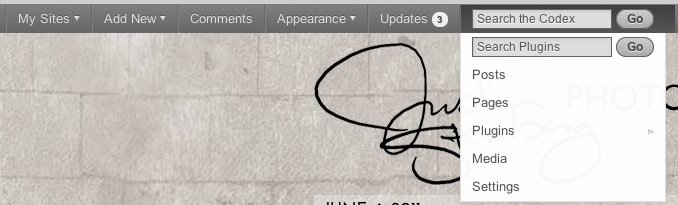
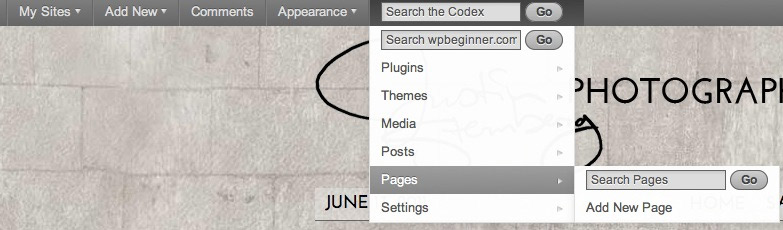
version 1.5
git-svn-id: https://plugins.svn.wordpress.org/enhanced-admin-bar-with-codex-search/trunk@396697 b8457f37-d9ea-0310-8a92-e5e31aec5664

diff --git a/admin-bar-enhancements.php b/admin-bar-enhancements.php
@@ -2,11 +2,11 @@
 /*
 Plugin Name: Enhanced Admin Bar with Codex Search
 Plugin URI: http://dsgnwrks.pro/enhanced-admin-bar-with-codex-search/
-Description: This plugin provided easy access to the codex, plugins repository and common wp-admin areas via the 3.1 Admin Bar.
+Description: This plugin adds convenient search fields to provide easy access to the codex, wpbeginner, and common wp-admin areas via the 3.1 Admin Bar.
 Author URI: http://dsgnwrks.pro
 Author: DsgnWrks
 Donate link: http://dsgnwrks.pro/give/
-Version: 1.0
+Version: 1.5
 */
 
 
@@ -21,9 +21,12 @@ function dsgnwrks_adminbar_search_css() {
 add_filter( 'in_admin_header', 'dsgnwrks_3_2_search_formS', 11 );
 function dsgnwrks_3_2_search_formS() {
 	if ( get_bloginfo('version') >= 3.2 ) {
+		// install_search_form2();
 	    echo '
-		<form target="_blank" method="get" action="http://wordpress.org/extend/plugins/search.php" class="alignright dw_search_form search_plugins" >
-			<input type="text" onblur="this.value=(this.value==\'\') ? \'Search Plugins\' : this.value;" onfocus="this.value=(this.value==\'Search Plugins\') ? \'\' : this.value;" value="Search Plugins" name="search" class="text dw_search_input" > 
+		<form method="get" action="'.admin_url('plugin-install.php').'"  class="alignright dw_search_form search_plugins" >
+			<input type="hidden" name="tab" value="search"/>
+			<input type="hidden" name="type" value="term"/>
+			<input type="text" placeholder="Search Plugins" onblur="this.value=(this.value==\'\') ? \'Search Plugins\' : this.value;" onfocus="this.value=(this.value==\'Search Plugins\') ? \'\' : this.value;" value="Search Plugins" name="s" value="' . esc_attr($term) . '" class="text dw_search_input" />
 			<input type="submit" value="Go" class="button dw_search_go"  />
 		</form>
 		<form target="_blank" method="get" action="http://wordpress.org/search/do-search.php" class="alignright dw_search_form search_codex" >
@@ -34,16 +37,51 @@ function dsgnwrks_3_2_search_formS() {
 	}
 }
 
+// Add Custom Menu Option
+add_action('init', 'dsgnwrks_adminbar_nav');
+function dsgnwrks_adminbar_nav() {
+
+	register_nav_menus( array(
+		'admin_bar_nav' => __( 'Admin Bar Custom Navigation Menu' ),
+	) );
+
+}
+
 // Add Custom Menu to the Admin bar
 add_action('admin_bar_init', 'dsgnwrks_adminbar_menu_init');
 function dsgnwrks_adminbar_menu_init() {
 	if (!is_super_admin() || !is_admin_bar_showing() )
 		return;
- 	add_action( 'admin_bar_menu', 'dsgnwrks_admin_bar_menu', 500 );
+ 	add_action( 'admin_bar_menu', 'dsgnwrks_admin_bar_menu', 1000 );
 }
 
 function dsgnwrks_admin_bar_menu() {
 	global $wp_admin_bar;
+
+	// Add a custom menu option
+	$menu_name = 'admin_bar_nav';
+	if ( ( $locations = get_nav_menu_locations() ) && isset( $locations[ $menu_name ] ) ) {
+		$menu = wp_get_nav_menu_object( $locations[ $menu_name ] );
+
+	    $menu_items = wp_get_nav_menu_items( $menu->term_id );
+	    $wp_admin_bar->add_menu( array(
+	        'id' => 'dsgnwrks-admin-menu-0',
+	        'title' => 'Enhanced Admin Bar Custom Menu',
+			'href' => '#' ) );
+	    foreach ( $menu_items as $menu_item ) {
+	        $wp_admin_bar->add_menu( array(
+	            'id' => 'dsgnwrks-admin-menu-' . $menu_item->ID,
+	            'parent' => 'dsgnwrks-admin-menu-' . $menu_item->menu_item_parent,
+	            'title' => $menu_item->title,
+	            'href' => $menu_item->url,
+	            'meta' => array(
+	                'title' => $menu_item->attr_title,
+	                'target' => $menu_item->target,
+	                'class' => implode( ' ', $menu_item->classes ),
+	            ),
+	        ) );
+	    }
+	}
 
 	$go_button = '<input type="submit" value="Go" class="button dw_search_go"  /></form>';
 	$admin_url = get_admin_url();
@@ -61,48 +99,217 @@ function dsgnwrks_admin_bar_menu() {
 	$wp_admin_bar->add_menu( array(
 	'parent' => 'dsgnwrks_help_menu',
 	'title' => __( '
-	<strong style="display:none;">Search Plugins</strong>
-	<form target="_blank" method="get" action="http://wordpress.org/extend/plugins/search.php" class="alignleft dw_search">
-		<input type="text" onblur="this.value=(this.value==\'\') ? \'Search Plugins\' : this.value;" onfocus="this.value=(this.value==\'Search Plugins\') ? \'\' : this.value;" value="Search Plugins" name="search" class="text dw_search_input" > 
+	<strong style="display:none;">Search wpbeginner.com</strong>
+	<form target="_blank" method="get" action="http://www.wpbeginner.com/" class="alignleft dw_search" >
+		<input type="text" onblur="this.value=(this.value==\'\') ? \'Search wpbeginner.com\' : this.value;" onfocus="this.value=(this.value==\'Search wpbeginner.com\') ? \'\' : this.value;" value="Search wpbeginner.com" name="s" class="text dw_search_input" > 
 	'.$go_button),
 	'href' => '#' ) );
+
+	if ( !is_admin() ) {
+
+		$wp_admin_bar->add_menu( array(
+		'id' => 'plugins_stuff',
+		'parent' => 'dsgnwrks_help_menu',
+		'title' => __( 'Plugins'),
+		'href' => admin_url('plugins.php') ) );
+
+		$wp_admin_bar->add_menu( array(
+		'parent' => 'plugins_stuff',
+		'title' => __( '
+		<strong style="display:none;">Search Plugins</strong>
+		<form method="get" action="'.admin_url('plugin-install.php?tab=search').'"  class="alignleft dw_search" >
+		<input type="hidden" name="tab" value="search"/>
+		<input type="hidden" name="type" value="term"/>
+		<input type="text" placeholder="Search Plugins" onblur="this.value=(this.value==\'\') ? \'Search Plugins\' : this.value;" onfocus="this.value=(this.value==\'Search Plugins\') ? \'\' : this.value;" value="Search Plugins" name="s" value="' . esc_attr($term) . '" class="text dw_search_input" />
+		<label class="screen-reader-text" for="plugin-search-input">' . _e('Search Plugins') . '</label>'.$go_button),
+		'href' => '#' ) );
+
+		$wp_admin_bar->add_menu( array(
+		'parent' => 'plugins_stuff',
+		'title' => __( 'Upload Plugin' ),
+		'href' => admin_url('plugin-install.php?tab=upload') ) );
+
+		$wp_admin_bar->add_menu( array(
+		'id' => 'themes_stuff',
+		'parent' => 'dsgnwrks_help_menu',
+		'title' => __( 'Themes'),
+		'href' => admin_url('themes.php') ) );
+
+		$wp_admin_bar->add_menu( array(
+		'parent' => 'themes_stuff',
+		'title' => __( '
+		<strong style="display:none;">Search Themes</strong>
+		<form method="get" action="'.admin_url('theme-install.php?tab=search').'"  class="alignleft dw_search" >
+		<input type="hidden" name="tab" value="search"/>
+		<input type="hidden" name="type" value="term"/>
+		<input type="text" placeholder="Search Themes" onblur="this.value=(this.value==\'\') ? \'Search Themes\' : this.value;" onfocus="this.value=(this.value==\'Search Themes\') ? \'\' : this.value;" value="Search Themes" name="s" value="' . esc_attr($term) . '" class="text dw_search_input" />
+		<label class="screen-reader-text" for="theme-search-input">' . _e('Search Themes') . '</label>'.$go_button),
+		'href' => '#' ) );
+
+		$wp_admin_bar->add_menu( array(
+		'parent' => 'themes_stuff',
+		'title' => __( 'Upload Theme' ),
+		'href' => admin_url('theme-install.php?tab=upload') ) );
+
+		$wp_admin_bar->add_menu( array(
+		'id' => 'media_stuff',
+		'parent' => 'dsgnwrks_help_menu',
+		'title' => __( 'Media'),
+		'href' => admin_url('upload.php') ) );
+
+		$wp_admin_bar->add_menu( array(
+		'parent' => 'media_stuff',
+		'title' => __( '
+		<strong style="display:none;">Search Media</strong>
+		<form method="get" action="'.admin_url('upload.php?tab=search').'"  class="alignleft dw_search" >
+		<input type="text" placeholder="Search Media" onblur="this.value=(this.value==\'\') ? \'Search Media\' : this.value;" onfocus="this.value=(this.value==\'Search Media\') ? \'\' : this.value;" value="Search Media" name="s" value="' . esc_attr($term) . '" class="text dw_search_input" />
+		<label class="screen-reader-text" for="media-search-input">' . _e('Search Media') . '</label>'.$go_button),
+		'href' => '#' ) );
+
+		$wp_admin_bar->add_menu( array(
+		'parent' => 'media_stuff',
+		'title' => __( 'Upload Media' ),
+		'href' => admin_url('media-new.php') ) );
+
+	} else {
+
+		$wp_admin_bar->add_menu( array(
+		'id' => 'plugins_stuff',
+		'parent' => 'dsgnwrks_help_menu',
+		'title' => __( '
+		<strong style="display:none;">Search Plugins</strong>
+		<form method="get" action="'.admin_url('plugin-install.php?tab=search').'"  class="alignleft dw_search" >
+		<input type="hidden" name="tab" value="search"/>
+		<input type="hidden" name="type" value="term"/>
+		<input type="text" placeholder="Search Plugins" onblur="this.value=(this.value==\'\') ? \'Search Plugins\' : this.value;" onfocus="this.value=(this.value==\'Search Plugins\') ? \'\' : this.value;" value="Search Plugins" name="s" value="' . esc_attr($term) . '" class="text dw_search_input" />
+		<label class="screen-reader-text" for="plugin-search-input">' . _e('Search Plugins') . '</label>'.$go_button),
+		'href' => '#' ) );
+
+		$wp_admin_bar->add_menu( array(
+		'parent' => 'plugins_stuff',
+		'title' => __( 'Upload Plugin' ),
+		'href' => admin_url('plugin-install.php?tab=upload') ) );
+
+		$wp_admin_bar->add_menu( array(
+		'id' => 'themes_stuff',
+		'parent' => 'dsgnwrks_help_menu',
+		'title' => __( '
+		<strong style="display:none;">Search Themes</strong>
+		<form method="get" action="'.admin_url('theme-install.php?tab=search').'"  class="alignleft dw_search" >
+		<input type="hidden" name="tab" value="search"/>
+		<input type="hidden" name="type" value="term"/>
+		<input type="text" placeholder="Search Themes" onblur="this.value=(this.value==\'\') ? \'Search Themes\' : this.value;" onfocus="this.value=(this.value==\'Search Themes\') ? \'\' : this.value;" value="Search Themes" name="s" value="' . esc_attr($term) . '" class="text dw_search_input" />
+		<label class="screen-reader-text" for="theme-search-input">' . _e('Search Themes') . '</label>'.$go_button),
+		'href' => '#' ) );
+
+		$wp_admin_bar->add_menu( array(
+		'parent' => 'themes_stuff',
+		'title' => __( 'Upload Theme' ),
+		'href' => admin_url('theme-install.php?tab=upload') ) );
+
+		$wp_admin_bar->add_menu( array(
+		'id' => 'media_stuff',
+		'parent' => 'dsgnwrks_help_menu',
+		'title' => __( '
+		<strong style="display:none;">Search Media</strong>
+		<form method="get" action="'.admin_url('upload.php?tab=search').'"  class="alignleft dw_search" >
+		<input type="text" placeholder="Search Media" onblur="this.value=(this.value==\'\') ? \'Search Media\' : this.value;" onfocus="this.value=(this.value==\'Search Media\') ? \'\' : this.value;" value="Search Media" name="s" value="' . esc_attr($term) . '" class="text dw_search_input" />
+		<label class="screen-reader-text" for="media-search-input">' . _e('Search Media') . '</label>'.$go_button),
+		'href' => '#' ) );
+
+		$wp_admin_bar->add_menu( array(
+		'parent' => 'media_stuff',
+		'title' => __( 'Upload Media' ),
+		'href' => admin_url('media-new.php') ) );		
+	}
+
+	$actions = array();
+	foreach ( (array) get_post_types( array( 'show_ui' => true ), 'objects' ) as $ptype_obj ) {
+		if ( true !== $ptype_obj->show_in_menu || ! current_user_can( $ptype_obj->cap->edit_posts ) )
+			continue;
+
+		$actions[ 'post-new.php?post_type=' . $ptype_obj->name ] = array( $ptype_obj->labels->name, $ptype_obj->cap->edit_posts, 'new-' . $ptype_obj->name, $ptype_obj->labels->singular_name, $ptype_obj->name, 'edit.php?post_type=' . $ptype_obj->name );
+	}
+
+	if ( empty( $actions ) )
+		return;
+
+	foreach ( $actions as $link => $action ) {
+
+		if ( is_admin() ) {
+			$wp_admin_bar->add_menu( array( 'parent' => 'dsgnwrks_help_menu', 
+			'title' => __( '
+			<strong style="display:none;">Search '.$action[0].'</strong>
+			<form method="get" action="'.admin_url('edit.php').'"  class="alignleft dw_search" >
+			<input type="hidden" name="post_status" value="all"/>
+			<input type="hidden" name="post_type" value="'.$action[4].'"/>
+			<input type="text" placeholder="Search '.$action[0].'" onblur="this.value=(this.value==\'\') ? \'Search '.$action[0].'\' : this.value;" onfocus="this.value=(this.value==\'Search '.$action[0].'\') ? \'\' : this.value;" value="Search '.$action[0].'" name="s" value="' . esc_attr($term) . '" class="text dw_search_input" />
+			<label class="screen-reader-text" >' . _e('Search '.$action[0]) . '</label>'.$go_button),
+			'href' => '#' ) );
+		} else {
+			$wp_admin_bar->add_menu( array( 
+			'parent' => 'dsgnwrks_help_menu', 
+			'id' => $action[2], 
+			'title' => $action[0], 
+			'href' => admin_url($action[5]) ) );
+
+
+			$wp_admin_bar->add_menu( array( 'parent' => $action[2], 
+			'title' => __( '
+			<strong style="display:none;">Search '.$action[0].'</strong>
+			<form method="get" action="'.admin_url('edit.php').'"  class="alignleft dw_search" >
+			<input type="hidden" name="post_status" value="all"/>
+			<input type="hidden" name="post_type" value="'.$action[4].'"/>
+			<input type="text" placeholder="Search '.$action[0].'" onblur="this.value=(this.value==\'\') ? \'Search '.$action[0].'\' : this.value;" onfocus="this.value=(this.value==\'Search '.$action[0].'\') ? \'\' : this.value;" value="Search '.$action[0].'" name="s" value="' . esc_attr($term) . '" class="text dw_search_input" />
+			<label class="screen-reader-text" >' . _e('Search '.$action[0]) . '</label>'.$go_button),
+			'href' => '#' ) );
+
+			$wp_admin_bar->add_menu( array( 
+			'parent' => $action[2], 
+			'title' => 'Add New '.$action[3], 
+			'href' => admin_url($link) ) );
+		}
+	}
 
 	// Only add remaining menu items if we're not in wp-admin.
 	if ( is_admin() )
 	return;		
 
 	$wp_admin_bar->add_menu( array(
-	'id' => 'posts_stuff',
-	'parent' => 'dsgnwrks_help_menu',
-	'title' => __( 'Posts'),
-	'href' => $admin_url.'edit.php' ) );
-
-	$wp_admin_bar->add_menu( array(
-	'id' => 'page_stuff',
-	'parent' => 'dsgnwrks_help_menu',
-	'title' => __( 'Pages'),
-	'href' => $admin_url.'edit.php?post_type=page' ) );
-
-	$wp_admin_bar->add_menu( array(
-	'id' => 'plugins_stuff',
-	'parent' => 'dsgnwrks_help_menu',
-	'title' => __( 'Plugins'),
-	'href' => $admin_url.'plugins.php' ) );
-
-	$wp_admin_bar->add_menu( array(
-	'parent' => 'plugins_stuff',
-	'title' => __( 'Add New Plugin' ),
-	'href' => $admin_url.'plugin-install.php' ) );
-
-	$wp_admin_bar->add_menu( array(
-	'parent' => 'dsgnwrks_help_menu',
-	'title' => __( 'Media'),
-	'href' => $admin_url.'upload.php' ) );
-
-	$wp_admin_bar->add_menu( array(
+	'id' => 'settings_stuff',
 	'parent' => 'dsgnwrks_help_menu',
 	'title' => __( 'Settings'),
-	'href' => $admin_url.'options-general.php' ) );
+	'href' => admin_url('options-general.php') ) );
+
+	$wp_admin_bar->add_menu( array(
+	'parent' => 'settings_stuff',
+	'title' => __( 'Writing'),
+	'href' => admin_url('options-writing.php') ) );
+
+	$wp_admin_bar->add_menu( array(
+	'parent' => 'settings_stuff',
+	'title' => __( 'Reading'),
+	'href' => admin_url('options-reading.php') ) );
+
+	$wp_admin_bar->add_menu( array(
+	'parent' => 'settings_stuff',
+	'title' => __( 'Discussion'),
+	'href' => admin_url('options-discussion.php') ) );
+
+	$wp_admin_bar->add_menu( array(
+	'parent' => 'settings_stuff',
+	'title' => __( 'Media'),
+	'href' => admin_url('options-media.php') ) );
+
+	$wp_admin_bar->add_menu( array(
+	'parent' => 'settings_stuff',
+	'title' => __( 'Privacy'),
+	'href' => admin_url('options-privacy.php') ) );
+
+	$wp_admin_bar->add_menu( array(
+	'parent' => 'settings_stuff',
+	'title' => __( 'Permalinks'),
+	'href' => admin_url('options-permalink.php') ) );
 }
 
 // add theme info dashboard widget
